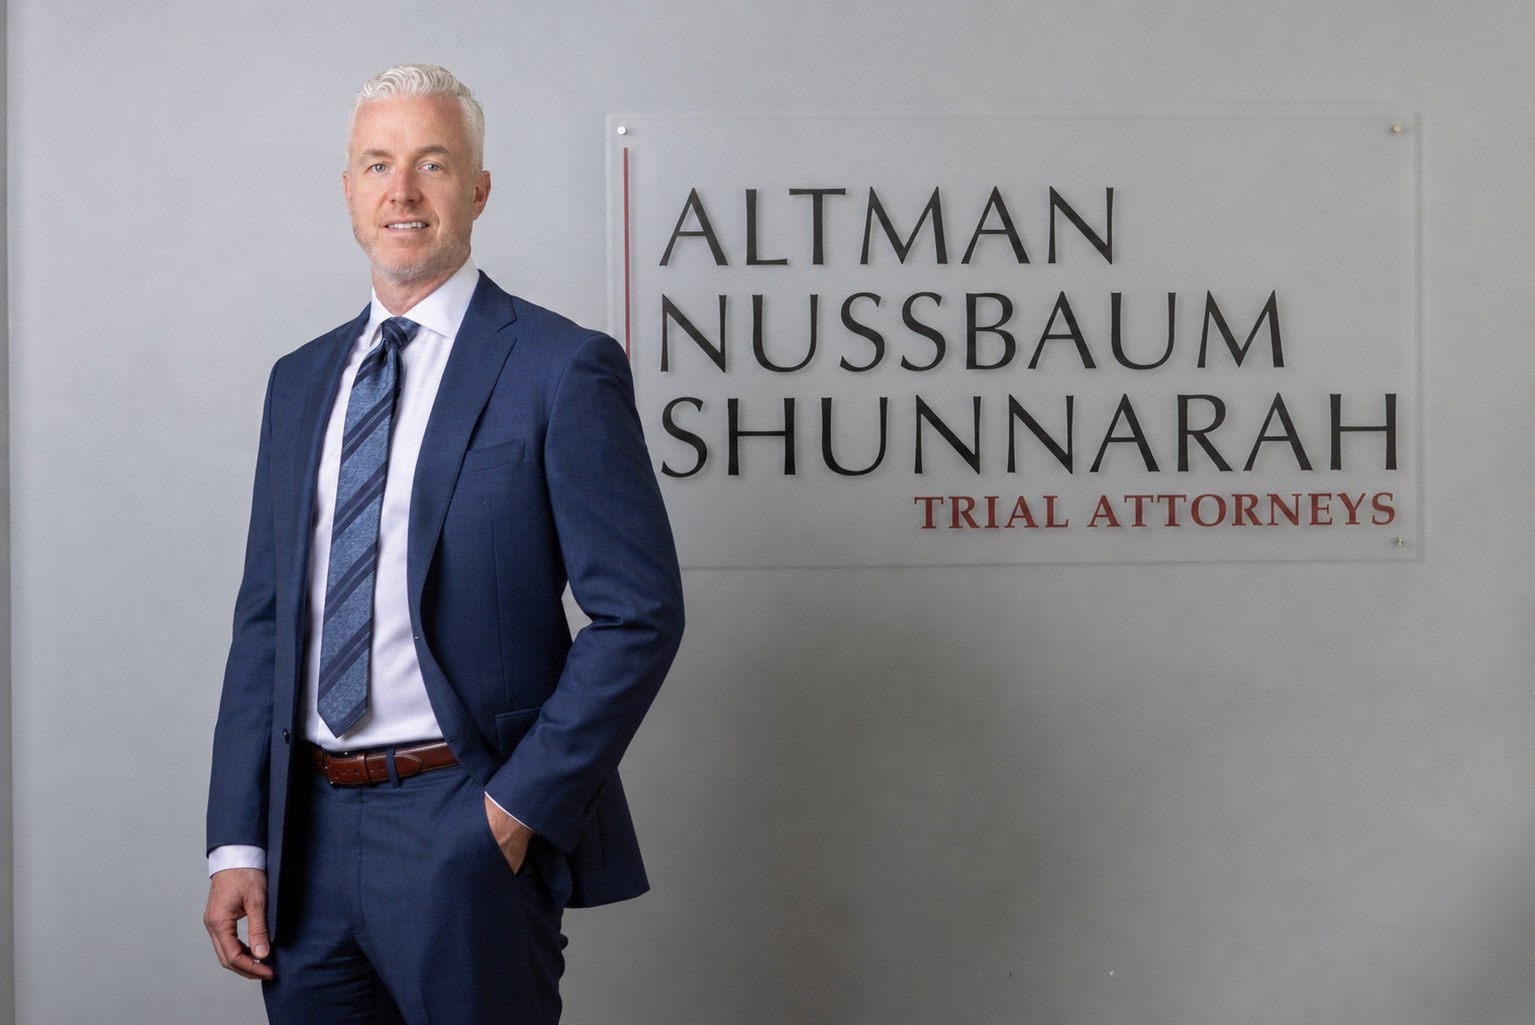
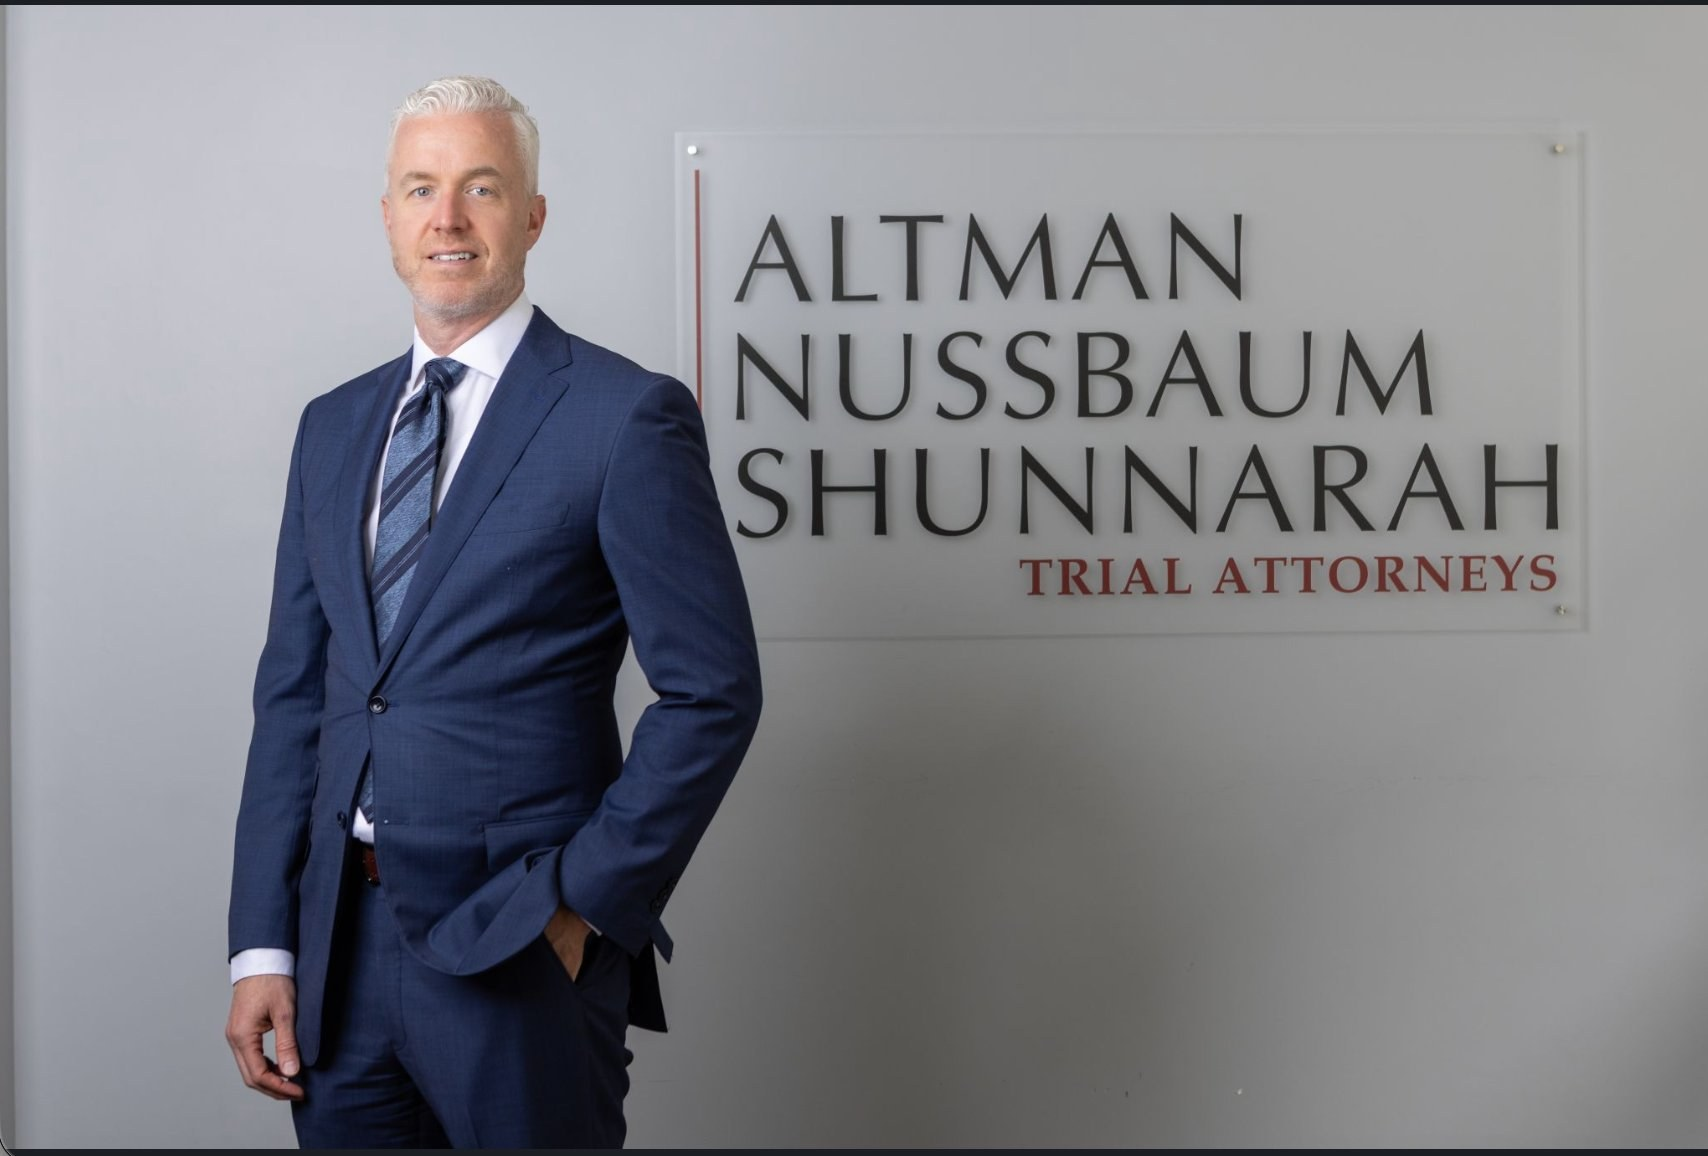
Add files via upload

diff --git a/index.html b/index.html
@@ -52,7 +52,7 @@ nav { background: rgba(12,12,12,0.97); backdrop-filter: blur(8px); position: sti
 .hero h1 em { color: var(--crimson-bright); font-style: italic; }
 .hero-btns { display: flex; gap: 1rem; flex-wrap: wrap; margin-top: 2.4rem; }
 .hero-right { flex: 0 0 48%; position: relative; overflow: hidden; }
-.hero-right img { width: 100%; height: 100%; object-fit: cover; object-position: 30% top; display: block; }
+.hero-right img { width: 100%; height: 100%; object-fit: cover; object-position: 40% top; display: block; }
 .hero-right::before { content: ''; position: absolute; top: 0; left: 0; bottom: 0; width: 120px; background: linear-gradient(to right, #0c0c0c, transparent); z-index: 1; }
 .hero-right::after { content: ''; position: absolute; left: 0; right: 0; bottom: 0; height: 80px; background: linear-gradient(to top, rgba(12,12,12,0.55), transparent); z-index: 1; }
 
